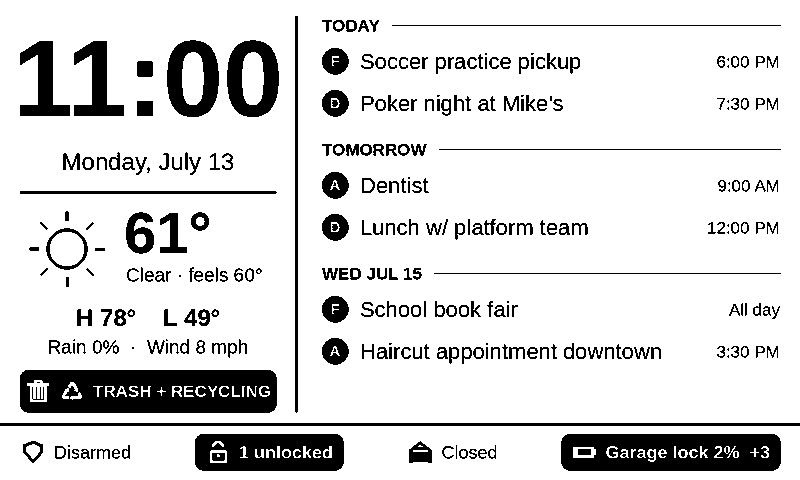
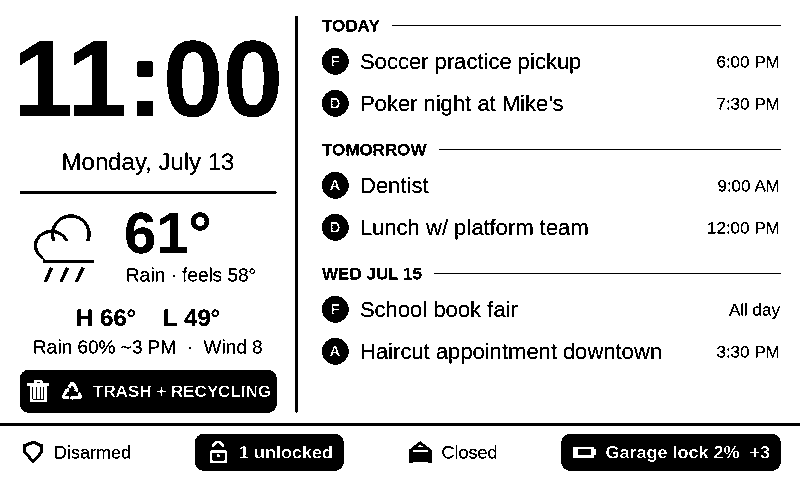
Rain heuristic (probability x amount), timing annotation, design docs
- Rain % now counts only hourly buckets passing both tunable thresholds
  (eink_thresh_rain_pct >= 25%, eink_thresh_rain_amt >= 0.02 in/hr) so
  trace rain reads as 0%; first qualifying hour shown as '~3 PM'
- Wind drops 'mph' when timing is shown to stay inside the column
- DESIGN.md: rationale for architecture split, refresh strategy, driver
  polarity quirk, and all display semantics
- ROADMAP.md: housing, buttons, LEDs, bigger panel, desk display plans

diff --git a/mockup/mockup.py b/mockup/mockup.py
@@ -19,13 +19,14 @@ DATA = {
     "ampm": "PM",
     "date": "Monday, July 13",
     "weather": {
-        "condition": "Clear",          # clear-day | clear-night | cloudy | rain
-        "icon": "sun",                 # sun | moon | cloud | rain
+        "condition": "Rain",           # clear-day | clear-night | cloudy | rain
+        "icon": "rain",                # sun | moon | cloud | rain
         "temp": 61,
-        "feels": 60,
-        "high": 78,
+        "feels": 58,
+        "high": 66,
         "low": 49,
-        "rain_pct": 0,
+        "rain_pct": 60,
+        "rain_at": "3 PM",             # first hour rain becomes likely; None = omit
         "wind": 8,
     },
     # who: D=Drew, A=Ashley, F=Family, B=Birthday
@@ -244,8 +245,16 @@ def icon_battlow(c, x, y, s, fill=BLACK):
             fill=fill)
 
 
+def icon_rain(c, x, y, s, fill=BLACK):
+    icon_cloud(c, x, y - s * 0.12, s, fill)
+    for fx in (0.30, 0.50, 0.70):
+        c.line(x + s * fx, y + s * 0.74, x + s * fx - s * 0.08,
+               y + s * 0.92, w=3, fill=fill)
+
+
 ICONS = {
     "sun": icon_sun, "moon": icon_moon, "cloud": icon_cloud,
+    "rain": icon_rain,
     "battlow": icon_battlow,
     "trash": icon_trash, "recycle": icon_recycle, "shield": icon_shield,
     "lock": icon_lock, "garage": icon_garage, "car": icon_car,
@@ -278,9 +287,11 @@ def draw_left_column(c):
     # forecast lines
     c.text((colc, 304), f"H {w['high']}°    L {w['low']}°",
            font(24, bold=True), anchor="ma")
-    c.text((colc, 336),
-           f"Rain {w['rain_pct']}%  ·  Wind {w['wind']} mph",
-           font(19), anchor="ma")
+    if w.get("rain_at") and w["rain_pct"] > 0:
+        line2 = f"Rain {w['rain_pct']}% ~{w['rain_at']}  ·  Wind {w['wind']}"
+    else:
+        line2 = f"Rain {w['rain_pct']}%  ·  Wind {w['wind']} mph"
+    c.text((colc, 336), line2, font(19), anchor="ma")
 
     # trash / recycling badge
     t = DATA["trash"]

diff --git a/DESIGN.md b/DESIGN.md
@@ -1,0 +1,99 @@
+# Design decisions
+
+The "why" behind choices that aren't obvious from the code. If you're a
+future session (human or agent) picking this project up: read this and
+ROADMAP.md before proposing changes.
+
+## Architecture: HA computes, the device renders
+
+ESPHome can't call HA services that return responses (`calendar.get_events`,
+`weather.get_forecasts`), so anything derived from those is computed by HA
+automations and staged into `input_text`/`input_number` helpers (`eink_*`
+namespace) that the device imports as plain sensors. This split has three
+deliberate benefits:
+
+- All behavior thresholds are HA helpers — tunable from the "eInk Board"
+  dashboard with zero reflashes.
+- The device lambda stays a dumb renderer; logic bugs are fixable in the HA
+  UI in seconds.
+- A future bigger panel (see ROADMAP) reuses the entire HA pipeline
+  regardless of rendering stack.
+
+Data contracts between HA and device:
+
+- `eink_event_1..7`: `YYYY-MM-DD|label|badge|title` (label is a display
+  string: a time, "All day", "thru THU", or "ends 8 AM").
+- `eink_day_status`: `YYYY-MM-DD|S|P;...` — 4 days; status letter
+  (O/H/T/V/S/-) then on-call letter (P/S/-).
+- `eink_battery_worst`: display-ready string ("Garage lock 2%") or empty.
+
+## Refresh strategy (7.50inv2p driver)
+
+- Minute-tick partial refresh (~2s) via `time.on_time`; full refresh every
+  30th update (`full_update_every: 30`) to clear ghosting.
+- **Forcing a full refresh must reset the driver's `at_update_` counter**
+  (via the `ForceFull` subclass shim in the `full_refresh` script). Do NOT
+  use `set_full_update_every(1)`: that branch of the driver writes the
+  inverted buffer and expects the data-polarity register as `initialize()`
+  left it (CDI 0x10), but every normal render sets 0xA9 — the result is a
+  fully inverted frame until the next partial. Found the hard way.
+- Boot splash renders via full refresh: after any reboot the panel's own RAM
+  may hold a stale frame, and partials diff against panel RAM.
+- On HA reconnect: quick partial (fast feedback), then a full refresh 20s
+  later once sensor states have settled. Never full-refresh a half-populated
+  frame — early sparse renders are what ghost.
+- Never draw a fallback icon for data that simply hasn't arrived yet — blank
+  ghosts invisibly, icons don't.
+
+## Display semantics
+
+- **Clock**: 12h, no AM/PM. Roboto digits are equal-width; "11:00 PM"
+  side-by-side needs 327px in a 296px column. Chosen over shrinking the
+  clock or condensed fonts (options A–D evaluated 2026-07-14; Drew picked
+  "no AM/PM"). The mockup's sample time is pinned to "11:00" so layout
+  changes are always eyeballed against the worst case.
+- **Rain**: max precipitation probability over the next 12 hourly buckets,
+  counting only buckets passing BOTH thresholds (probability ≥
+  `eink_thresh_rain_pct`, amount ≥ `eink_thresh_rain_amt` in/hr). Rationale:
+  PoP alone overweights trace rain ("25%, 0.1 inches ≈ no rain at all" —
+  Drew). `~3 PM` = the first qualifying bucket's start hour; OWM buckets are
+  hour-wide, so minutes would be fake precision. A trace-only day shows
+  "Rain 0%" by design. When timing is shown, "mph" is dropped from the wind
+  to keep the line inside the column.
+- **Multi-day events**: ongoing events clamp to TODAY (so they show once,
+  daily). Label "thru THU" uses an effective end of `end - 9h` for timed
+  events (ending ≤9am doesn't claim that day) and `end - 1 day` for all-day
+  events (calendar end dates are exclusive). An in-progress event ending
+  later today shows "ends 8 PM".
+- **On-call**: a day is marked if the shift overlaps 9am–9pm local. Title
+  containing "secondary" → plain pager icon; anything else → primary →
+  inverted chip. Primary beats secondary on handoff days. Back-to-back
+  rotations (8am→8am) resolve to exactly one icon per day.
+- **Day status**: from all-day events on `calendar.work_status`, keyword
+  match with priority Sick > Vacation > Travel > WFH > Office (sick is
+  last-minute; vacation/travel are non-standard — Drew's ordering). Icons:
+  briefcase/laptop/airplane/palm-tree/medical-bag. Day headers for today+2
+  always render (empty day = free day, and gives status icons an anchor).
+- **Status bar**: `eink_status_priority` is one list controlling display
+  order AND drop order (least important last; dropped first when alert
+  pills need room; removing a token hides the item). Alert states render as
+  inverted pills and are never dropped. Battery pill shows worst offender
+  by name + `+N` (a named battery gets acted on; "check HA" gets ignored).
+- **Dedupe**: same normalized title + same start on 2+ calendars → one row,
+  F badge.
+- **Trash/recycling**: pure on-device date math (no HA entity): badge Mon
+  noon → Tue noon; recycling parity anchored to 2026-07-14 (a recycling
+  pickup) via days-from-civil / 7 / mod 2.
+- **Philosophy** (borrowed from hawksley.org's Timeframe): calm by default,
+  blank means healthy, inverted means "needs you". The display shows
+  status; it does not control anything.
+
+## Hardware notes
+
+- ESP32 devkit (esp32dev), Waveshare 7.5" V2 panel, ESPHome with esp-idf.
+- Panel supports `7.50inv2p` (manufactured post-Sept-2023); busy pin
+  inverted per that model's requirement.
+- PWR pin GPIO21 driven high at boot before display init.
+- mDNS doesn't resolve from the dev desktop; OTA by IP (see README).
+- HA entity `esphome-web-079390` at another IP is a DIFFERENT ESP32-C3
+  device — do not flash it.

diff --git a/ROADMAP.md b/ROADMAP.md
@@ -1,0 +1,75 @@
+# Roadmap
+
+Future work, roughly in order, with the intended approach for each. Primary
+inspiration: [Timeframe](https://hawksley.org/2026/02/17/timeframe.html)
+(Joel Hawksley's family e-paper dashboard) — the target aesthetic is
+"framed art that happens to be a display", not "gadget on the wall".
+
+## Housing (next up)
+
+Shadow box as the first prototype:
+- Mat board with a window cut for the active display area — hides the
+  panel's silver bezel and FPC ribbon; single biggest looks upgrade.
+- Consider omitting the glass (glare kills the paper illusion); non-glare
+  picture glass if structure demands it.
+- Panel mounted to rigid backing; gentle FPC bend — the ribbon is the most
+  fragile part.
+- Right-angle USB-C out a bottom pilot hole with strain relief. This is
+  wall-powered by design; battery operation is off the table at
+  minute-resolution refresh.
+- Drill the front LED pilot holes and top button carveouts NOW even if
+  unpopulated — retrofitting a hung box is the bad version of that job.
+- A picture light above the frame (see the Timeframe nook photo) does more
+  aesthetic work than any software change.
+- Later: 3D-printed frame (PETG if sunlight), screwless/magnet back since
+  OTA means the box only opens for hardware.
+
+## Buttons (ideas parked until the housing exists)
+
+Wire 2–3 momentary tactile switches (real click — mushy buttons + 2s e-ink
+response feels broken) to spare GPIOs; assign meaning in config later.
+Leading candidates:
+- Second screen (e.g. 5-day forecast / full-week agenda) that auto-reverts
+  after a couple of minutes.
+- Acknowledge/snooze the current alert pill.
+- Force full refresh.
+
+Principle (from Timeframe): the display shows status, it does not control
+the house. Buttons stay display-scoped.
+
+## LEDs
+
+Off 99% of the time. A single soft indicator for genuinely urgent states
+(alarm triggered, door open late at night), through light pipes rather than
+bare LEDs, with a time-based cutoff. WS2812 strip = one data pin in ESPHome.
+
+## Bigger panel for a prominent wall spot
+
+Ladder: 13.3" Waveshare (1600×1200, ~$300, stays on the ESPHome stack) as
+the middle rung; Boox Mira Pro 25.3" (~$2k, HDMI, host-rendered) as the
+endgame. Hawksley rejected the 32" tier for contrast. The HA-side pipeline
+(eink_* helpers/automations) carries over to either unchanged.
+
+Big-panel layout should adopt what the 7.5" is too small for:
+- Portrait orientation (agendas are lists; lists are tall).
+- Top status strip: blank when the house is healthy, one big item when not
+  ("Washer", "Front unlocked").
+- Hourly weather woven into the agenda as timeline rows ("12p — 87°",
+  "9–11p — Rain").
+- Minute-scale rain histogram (Now/20m/40m) — needs minutely data, which
+  means hitting OWM One Call directly rather than the HA integration.
+
+## Personal desk display (spare devkit #2 of 3)
+
+Drew-only stats, same architecture (HA helpers feed a dumb renderer):
+- Claude usage: `ccusage` output → HA command-line sensor.
+- Up-next queues: Plex/Trakt/Steam integrations in HA.
+
+## Data/feature ideas not yet scheduled
+
+- Working-location fidelity: statuses come from the personal
+  `calendar.work_status` calendar (all-day keyword events), NOT the real
+  work calendar (Outlook-mirrored, messy, low fidelity — deliberately
+  avoided).
+- Battery alert could grow a second named entry if the single
+  worst-offender + count pattern proves insufficient.

diff --git a/README.md b/README.md
@@ -8,6 +8,11 @@ monochrome), driven by ESPHome and fed from Home Assistant.
 *(Pillow mockup with sample data — the real panel renders the same layout
 from live HA state.)*
 
+See [DESIGN.md](DESIGN.md) for the reasoning behind non-obvious decisions
+(refresh strategy, driver quirks, display semantics) and
+[ROADMAP.md](ROADMAP.md) for planned work — read both before proposing
+changes.
+
 ## Layout
 
 - **Left column:** clock (minute resolution), date, current weather + today's
@@ -48,8 +53,9 @@ are staged into helpers by automations (all managed via the HA UI):
 **Automations** (Settings → Automations, `eInk:` prefix):
 - *update weather forecast* — hourly; `weather.get_forecasts` on
   `weather.openweathermap` → `input_number.eink_weather_{high,low,rain}`.
-  Rain is the max precipitation probability over the next 12 hours (the
-  "will I get rained on" number), not the whole-day aggregate.
+  Rain is the max precipitation probability over the next 12 hours, counting
+  only hours that pass both tunable thresholds (probability AND amount —
+  trace rain doesn't count), plus the first qualifying hour ("~3 PM").
 - *update calendar events* — every 15 min; `calendar.get_events` across the
   four calendars, merged/sorted/deduped → `input_text.eink_event_1..7` as
   `YYYY-MM-DD|label|badge|title` rows. Also reads `calendar.work_status`